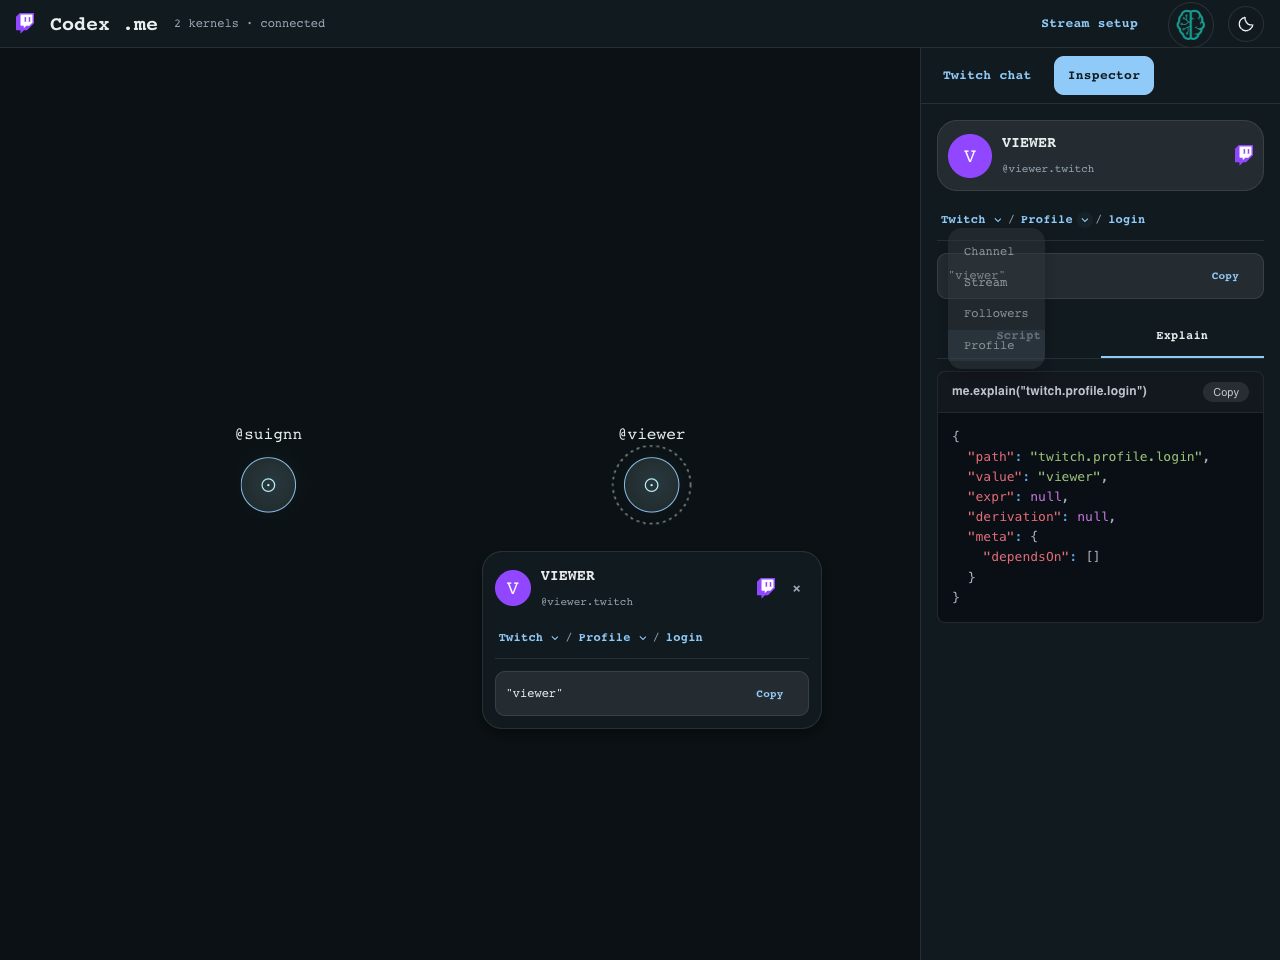
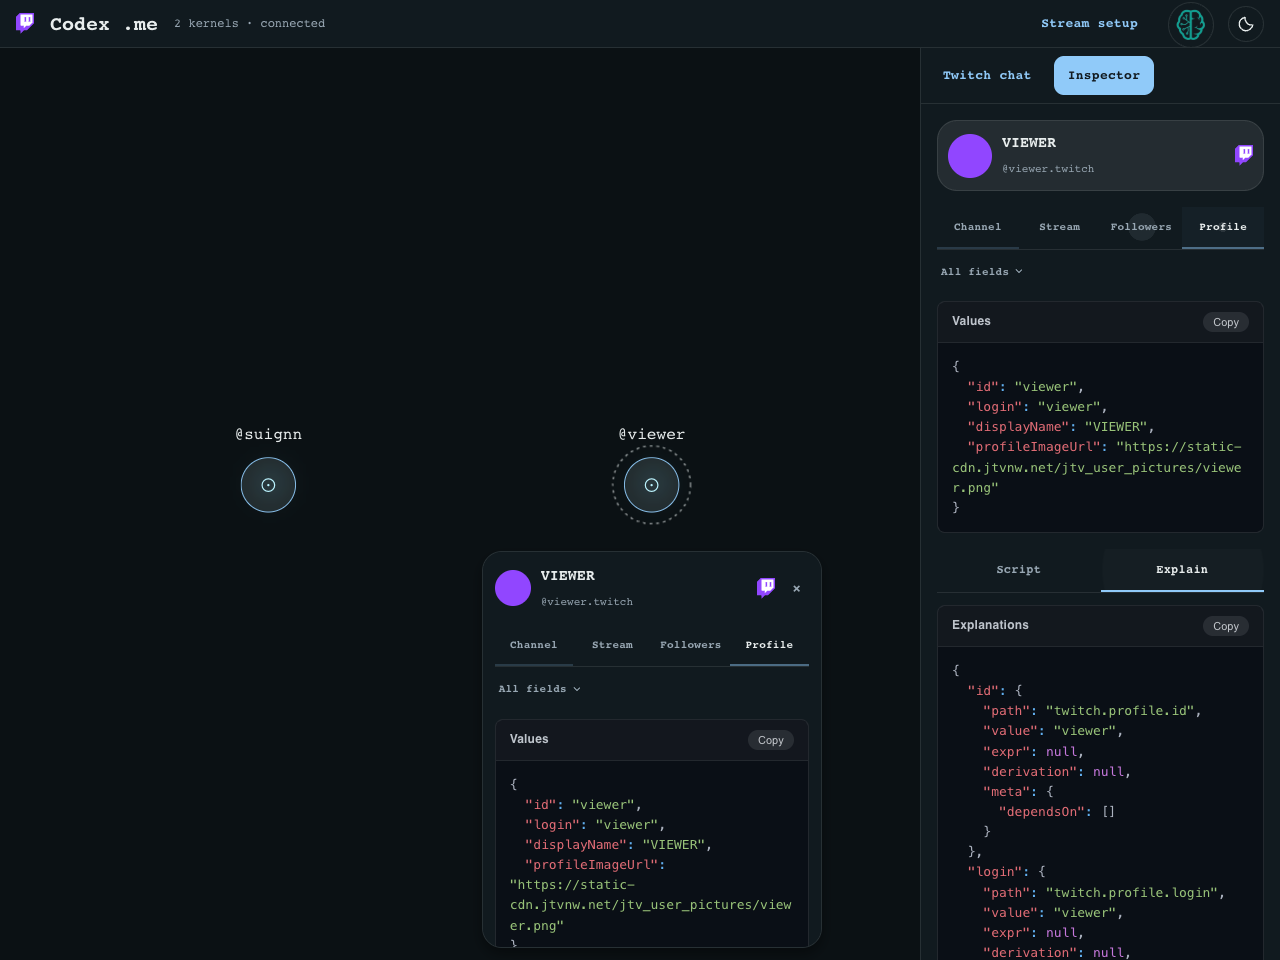
fix: expose Twitch resource tabs and show complete section outputs immediately

diff --git a/overlay/kernel-graph.js b/overlay/kernel-graph.js
@@ -1,36 +1,28 @@
-import { pathParts, joinPath, pathChildren } from './kernel-paths.js';
+import { pathParts, pathChildren } from './kernel-paths.js';
 const R = window.React, h = R.createElement, G = window.GUI;
 const { Box, Typography, Button } = G.Atoms;
 const { Menu, MenuItem } = G.Molecules;
 const mono = { fontFamily: '"IBM Plex Mono", ui-monospace, monospace' };
-export function KnowledgeGraph({ graph, sections, owner = '', path, selectPath }) {
-  const [menu, setMenu] = R.useState(null), bar = R.useRef(null);
-  const nodes = graph?.nodes || [], parts = pathParts(path).filter((part, i) => i !== 0 || part !== 'twitch');
-  const childrenOf = target => target === 'twitch' && sections ? ['channel','stream','followers','profile'].map(name => ({ path: `twitch.${name}`, name: name[0].toUpperCase()+name.slice(1), node: null })) : pathChildren(nodes, target);
-  const prefix = ['twitch'];
-  R.useEffect(() => { if (bar.current) bar.current.scrollLeft = bar.current.scrollWidth; }, [path]);
+const resources = ['channel','stream','followers','profile'];
+export function KnowledgeGraph({ graph, owner = '', path, selectPath }) {
+  const [menu, setMenu] = R.useState(null);
+  const section = resources.includes(path.split('.')[1]) ? path.split('.')[1] : 'channel';
+  const root = `twitch.${section}`, fields = pathChildren(graph?.nodes || [], root), parts = pathParts(path).slice(2);
+  const prefix = R.useId();
   const go = value => { setMenu(null); selectPath(value); };
-  const button = { ...mono, textTransform: 'none', minWidth: 0, px: 0.5, py: 0.25, fontSize: 12, whiteSpace: 'nowrap', flexShrink: 0 };
-  const segment = (target, label, root = false) => {
-    const children = childrenOf(target), name = `Children of ${target || 'me://'}`;
-    return h(Box, { key: target, component: 'span', sx: { display: 'inline-flex', alignItems: 'center', flexShrink: 0 } },
-      h(Button, { size: 'small', onClick: () => go(target), 'data-path-segment': target, 'aria-current': target === path ? 'location' : undefined,
-        'aria-label': root ? 'Go to kernel root' : `Open path ${target}`, sx: button }, label),
-      children.length ? h(Button, { size: 'small', 'aria-label': name, title: `Browse ${target || 'kernel root'}`, 'aria-haspopup': 'menu', 'aria-expanded': menu?.parent === target,
-        onClick: event => setMenu({ anchor: event.currentTarget, parent: target, label: name }), sx: { ...button, px: 0.25 } },
-        h('svg', { 'aria-hidden': true, width: 12, height: 12, viewBox: '0 0 12 12', fill: 'none', stroke: 'currentColor', strokeWidth: 1.4 }, h('path', { d: 'M3 4.5 6 7.5 9 4.5' }))) : null);
-  };
-  return h(Box, { 'data-knowledge-graph': true, sx: { minWidth: 0 } },
-    h(Box, { component: 'nav', ref: bar, 'aria-label': 'Kernel path', 'data-kernel-path': path, 'data-kernel-owner': owner, 'data-me-address': `me://${owner}${path ? '/'+pathParts(path).join('/') : ''}`,
-      sx: { display: 'flex', alignItems: 'center', flexWrap: 'nowrap', overflowX: 'auto', whiteSpace: 'nowrap', gap: 0.25, borderBottom: 1, borderColor: 'divider', pb: 1, mb: 1.5 } },
-      segment('twitch', 'Twitch', true),
-      ...parts.map((part, i) => h(R.Fragment, { key: joinPath([...prefix, ...parts.slice(0, i + 1)]) },
-        h(Typography, { 'aria-hidden': true, sx: { ...mono, fontSize: 12, color: 'text.secondary', flexShrink: 0 } }, '/'),
-        segment(joinPath([...prefix, ...parts.slice(0, i + 1)]), i === 0 ? part[0].toUpperCase()+part.slice(1) : part)))),
-    h(Menu, { anchorEl: menu?.anchor || null, open: !!menu, onClose: () => setMenu(null), MenuListProps: { 'aria-label': menu?.label || 'Path choices' } },
-      childrenOf(menu?.parent || 'twitch').map(child => h(MenuItem, { key: child.path, selected: path === child.path || path.startsWith(child.path+'.'),
-        'data-path-option': child.path, onClick: () => go(child.path), title: child.node?.explanation,
-        sx: { ...mono, fontSize: 12, display: 'flex', gap: 2, justifyContent: 'space-between', maxWidth: 320 } },
-        h('span', null, child.name),
-        child.node ? h(Box, { component: 'span', sx: { color: 'text.secondary', fontSize: 11, minWidth: 0, overflow: 'hidden', textOverflow: 'ellipsis', whiteSpace: 'nowrap', maxWidth: 160 } }, JSON.stringify(child.node.value) ?? 'undefined') : null))));
+  return h(Box, { 'data-knowledge-graph': true, 'data-kernel-path': path, 'data-kernel-owner': owner, 'data-me-address': `me://${owner}/${pathParts(path).join('/')}`, sx: { minWidth: 0, mb: 1.5 } },
+    h(Box, { role: 'tablist', 'aria-label': 'Twitch sections', sx: { display: 'grid', gridTemplateColumns: 'repeat(4,minmax(0,1fr))', borderBottom: 1, borderColor: 'divider' } },
+      resources.map((name, index) => h(Button, { key: name, role: 'tab', id: `${prefix}-${name}`, 'aria-controls': `${prefix}-fields`, 'aria-selected': section === name, tabIndex: section === name ? 0 : -1,
+        onClick: () => go(`twitch.${name}`), onKeyDown: event => {
+          const next = event.key === 'ArrowRight' ? (index+1)%4 : event.key === 'ArrowLeft' ? (index+3)%4 : event.key === 'Home' ? 0 : event.key === 'End' ? 3 : null;
+          if (next === null) return; event.preventDefault(); go(`twitch.${resources[next]}`); event.currentTarget.parentElement.querySelectorAll('[role="tab"]')[next].focus();
+        }, sx: { ...mono, fontSize: { xs: 10, lg: 11 }, px: 0.25, minWidth: 0, textTransform: 'none', borderRadius: 0, borderBottom: 2, borderColor: section === name ? 'primary.main' : 'transparent', color: section === name ? 'text.primary' : 'text.secondary' } }, name[0].toUpperCase()+name.slice(1)))),
+    h(Box, { role: 'group', id: `${prefix}-fields`, 'aria-label': `${section} fields`, sx: { display: 'flex', alignItems: 'center', minHeight: 28, mt: 0.5 } },
+      fields.length ? h(Button, { size: 'small', onClick: event => setMenu(event.currentTarget), 'aria-label': `Fields of ${root}`, 'aria-haspopup': 'menu', 'aria-expanded': !!menu,
+        sx: { ...mono, fontSize: 11, minWidth: 0, px: 0.5, textTransform: 'none', color: 'text.secondary' } }, parts.length ? parts.join('/') : 'All fields',
+        h('svg', { 'aria-hidden': true, width: 12, height: 12, viewBox: '0 0 12 12', fill: 'none', stroke: 'currentColor', strokeWidth: 1.4, style: { marginLeft: 4 } }, h('path', { d: 'M3 4.5 6 7.5 9 4.5' }))) : null),
+    h(Menu, { anchorEl: menu, open: !!menu, onClose: () => setMenu(null), MenuListProps: { 'aria-label': `Fields of ${root}` } },
+      h(MenuItem, { selected: path === root, onClick: () => go(root), 'data-path-option': root, sx: { ...mono, fontSize: 12 } }, 'All fields'),
+      fields.map(child => h(MenuItem, { key: child.path, selected: child.path === path, 'data-path-option': child.path, onClick: () => go(child.path), sx: { ...mono, fontSize: 12, gap: 2, justifyContent: 'space-between', maxWidth: 320 } },
+        child.name, child.node ? h(Typography, { component: 'span', sx: { ...mono, fontSize: 11, color: 'text.secondary', overflow: 'hidden', textOverflow: 'ellipsis', whiteSpace: 'nowrap', maxWidth: 160 } }, JSON.stringify(child.node.value)) : null))));
 }

diff --git a/overlay/kernel-console.js b/overlay/kernel-console.js
@@ -17,42 +17,49 @@ function CodeLine({ value }) {
     error ? h(Typography, { role: 'alert', sx: { fontSize: 12, color: 'error.main', mt: 0.5 } }, error) : null);
 }
 const tabs = ['Script', 'Explain'];
-function useQuery(id, path, operation, enabled, revision = 0) {
+function useQuery(kernel, path, operation, enabled) {
   const [result, setResult] = R.useState(null);
-  const key = JSON.stringify([id, path, operation, revision]);
+  const nodes = kernel.graph?.nodes || [], leaf = nodes.some(node => node.path === path);
+  const paths = leaf ? [path] : nodes.filter(node => node.path.startsWith(path+'.')).map(node => node.path);
+  const revision = kernel.sections?.[path.split('.')[1]]?.updatedAt || 0;
+  const key = JSON.stringify([kernel.id, path, operation, paths, revision]);
   R.useEffect(() => {
-    if (!enabled) return;
+    if (!enabled || !paths.length) return;
     const controller = new AbortController();
     (async () => {
       try {
-        const params = new URLSearchParams({ path, operation });
-        const response = await fetch(`/api/kernels/${encodeURIComponent(id)}/query?${params}`, { signal: controller.signal });
-        const data = await response.json();
-        if (!response.ok) throw new Error(data.error || 'Query failed');
-        if (!controller.signal.aborted) setResult({ key, output: data.output });
+        const entries = await Promise.all(paths.map(async target => {
+          const response = await fetch(`/api/kernels/${encodeURIComponent(kernel.id)}/query?${new URLSearchParams({ path: target, operation })}`, { signal: controller.signal });
+          const data = await response.json();
+          if (!response.ok) throw new Error(data.error || 'Query failed');
+          return [target.slice(path.length+1), data.output];
+        }));
+        // A section is a UI projection of actual leaf reads/traces, not a native namespace read.
+        if (!controller.signal.aborted) setResult({ key, output: leaf ? entries[0][1] : Object.fromEntries(entries), projection: !leaf });
       } catch (e) { if (!controller.signal.aborted) setResult({ key, error: e.message }); }
     })();
     return () => controller.abort();
-  }, [id, path, operation, enabled, key, revision]);
+  }, [key, enabled]);
   return result?.key === key ? result : null;
 }
 function renderResult(result, operation, kernel, path, leaf) { return !leaf
     ? null
     : result?.error ? h(Typography, { role: 'alert', sx: { fontSize: 12, color: 'error.main' } }, result.error)
-    : result ? h(Box, { 'data-query-output': operation, 'aria-live': 'polite' }, operation === 'run'
+    : result ? h(Box, { 'data-query-output': operation, 'aria-live': 'polite' }, operation === 'run' && !result.projection
       ? h(CodeLine, { key: `${kernel.id}:${path}:${JSON.stringify(result.output)}`, value: result.output })
-      : code(JSON.stringify(result.output, null, 2), 'json', `me.explain(${JSON.stringify(path)})`))
+      : code(JSON.stringify(result.output, null, 2), 'json', result.projection ? operation === 'run' ? 'Values' : 'Explanations' : `me.explain(${JSON.stringify(path)})`))
     : h(Typography, { role: 'status', sx: { ...mono, fontSize: 12, color: 'text.secondary' } }, 'Loading…'); }
 export function KernelOutput({ kernel, path, compact = false }) {
-  const leaf = kernel.graph?.nodes.some(node => node.path === path);
-  const output = useQuery(kernel.id, path, 'run', leaf, kernel.sections?.[path.split('.')[1]]?.updatedAt);
-  if (!leaf) return null;
-  return h(Box, { component: 'section', 'aria-label': 'Output', sx: { mb: compact ? 0 : 2 } }, renderResult(output, 'run', kernel, path, leaf));
+  const leaf = kernel.graph?.nodes.some(node => node.path === path || node.path.startsWith(path+'.'));
+  const output = useQuery(kernel, path, 'run', leaf);
+  const state = kernel.sections?.[path.split('.')[1]];
+  if (!leaf || state?.status === 'error') return h(Typography, { role: state?.status === 'error' ? 'alert' : 'status', sx: { ...mono, fontSize: 11, color: state?.status === 'error' ? 'error.main' : 'text.secondary', mb: 1 } }, state?.error || 'Loading Twitch…');
+  return h(Box, { component: 'section', 'aria-label': 'Output', sx: { ...codeStyle, mb: compact ? 0 : 2 } }, renderResult(output, 'run', kernel, path, leaf));
 }
 export function KernelConsole({ kernel, path }) {
   const [tab, setTab] = R.useState('Script');
-  const leaf = kernel.graph?.nodes.some(node => node.path === path);
-  const explanation = useQuery(kernel.id, path, 'explain', leaf && tab === 'Explain', kernel.sections?.[path.split('.')[1]]?.updatedAt);
+  const leaf = kernel.graph?.nodes.some(node => node.path === path || node.path.startsWith(path+'.'));
+  const explanation = useQuery(kernel, path, 'explain', leaf && tab === 'Explain');
   const prefix = `console-${kernel.id}`;
   return h(Box, { 'data-kernel-console': kernel.id, sx: codeStyle },
     h(KernelOutput, { kernel, path }),

diff --git a/overlay/spiders.js b/overlay/spiders.js
@@ -103,11 +103,9 @@ function App() {
     load().finally(() => { if (!controller.signal.aborted) schedule(); });
     return () => { controller.abort(); clearTimeout(timer); };
   }, [current?.id, section]);
-  const status = current?.sections?.[section];
-  const error = sectionError && sectionError.id === current?.id && sectionError.section === section ? sectionError.message : status?.error;
   const openKernel = (kernel, anchor) => {
     if (transparent) return;
-    if (selected !== kernel.id) { select(kernel.id); selectPath('twitch'); }
+    if (selected !== kernel.id) { select(kernel.id); selectPath('twitch.channel'); }
     setBubbleAnchor(selected === kernel.id && bubbleAnchor ? null : anchor);
     setPanel('inspector');
   };
@@ -134,7 +132,7 @@ function App() {
           current ? h(React.Fragment, null,
             h(TwitchProfile, { kernel: current }),
             h(KnowledgeGraph, { graph: current.graph, sections: current.sections, owner: current.owner, path, selectPath }),
-            error ? h(Typography, { role: 'alert', sx: { ...mono, fontSize: 11, color: 'error.main', mb: 1 } }, error) : status?.status === 'loading' ? h(Typography, { role: 'status', sx: { ...mono, fontSize: 11, color: 'text.secondary', mb: 1 } }, 'Loading Twitch…') : null,
+            sectionError && sectionError.id === current.id && sectionError.section === section ? h(Typography, { role: 'alert', sx: { ...mono, fontSize: 11, color: 'error.main' } }, sectionError.message) : null,
             h(KernelConsole, { kernel: current, path }))
             : h(Typography, { role: 'status', 'data-inspector-empty': true, sx: { ...mono, fontSize: 14, color: 'text.secondary' } }, 'Select a node')))));
 }

diff --git a/README.md b/README.md
@@ -51,9 +51,9 @@ Graph nodes come from public `exportSnapshot().memories`; values are read throug
 
 The selected kernel's profile header renders its real Twitch avatar, display name and linked login using GUI atoms; the existing Twitch Glitch asset marks the profile and web topbar. Missing avatars fall back to the login initial. These controls remain outside the transparent OBS scene.
 
-The profile and bubble card use the label `@<login>.twitch` with the actual avatar and Twitch logo. This is a local account label, not a claimed protocol namespace or a registered domain. The navigation begins with **Twitch**, with **Channel / Stream / Followers / Profile** in its dropdown. Profile contains the technical fields so they do not clutter the main menu. Channel, Stream and Followers are API resource choices, not invented kernel facts before loading.
+The profile and bubble card use the label `@<login>.twitch` with the actual avatar and Twitch logo. This is a local account label, not a claimed protocol namespace or a registered domain. Immediately below the account header, **Channel / Stream / Followers / Profile** are four always-visible tabs. Selecting a tab immediately shows its complete imported section output; there is no repeated Twitch root label or prerequisite field selection. Profile contains the technical fields so they do not clutter the main menu. Channel, Stream and Followers are API resource choices, not invented kernel facts before loading.
 
-Clicking a bubble opens an anchored navigator synchronized with the inspector. Both share the selected kernel/path, actual copyable value and persistent Script/Explain tab. Segment names navigate to ancestors; dropdowns list children, so siblings are chosen from their shared parent. One-line bars scroll horizontally rather than wrap, with no separate child list or Select a path prompt. Closing the bubble navigator preserves its inspected path. These controls remain outside the transparent OBS source. Below the selected path, the value is always visible as a compact, single-line JSON code display with a Copy button and no separate Output heading. It automatically reads `me(path)` from the existing server kernel. Under it, **Script / Explain** tabs show the construction source or the actual `me.explain(path)` JSON, including expression, derivation and metadata from this.me 4.2.1. The selected tab is preserved while navigating paths or switching kernels. Query results follow the current selection, with obsolete requests cancelled and old-path results hidden. Script is initially selected; arrow keys and Home/End navigate the tabs. Both views use GUI's native syntax highlighting. No construction script is re-executed and no editable code or eval is accepted. The object inspector is separate from GUI's general semantic/interface inspector and browser DOM developer tools. Selecting graph nodes only reads state; it does not execute or rewrite scripts. Face following changes presentation only and does not invent kernel facts or explanation results.
+Clicking a bubble opens an anchored navigator synchronized with the inspector. Both share the selected kernel/path, actual copyable values and persistent Script/Explain tab. Channel is initially selected. Resource tabs navigate directly; the optional **All fields** dropdown narrows inspection to an individual field and can return to the whole section. Closing the bubble panel preserves selection. These controls remain outside the transparent OBS source. A section shows formatted, copyable JSON immediately. Selecting an individual field uses the compact, single-line JSON value with Copy. It automatically reads `me(path)` from the existing server kernel. Under it, **Script / Explain** tabs show the construction source or the actual `me.explain(path)` JSON, including expression, derivation and metadata from this.me 4.2.1. The selected tab is preserved while navigating paths or switching kernels. Query results follow the current selection, with obsolete requests cancelled and old-path results hidden. Script is initially selected; arrow keys and Home/End navigate the tabs. Both views use GUI's native syntax highlighting. No construction script is re-executed and no editable code or eval is accepted. The object inspector is separate from GUI's general semantic/interface inspector and browser DOM developer tools. Selecting graph nodes only reads state; it does not execute or rewrite scripts. Face following changes presentation only and does not invent kernel facts or explanation results.
 
 
 ### Public Twitch sections
@@ -69,7 +69,7 @@ Opening a section reads its actual data through the server, imports whitelisted 
 
 Stream `live` is normalized by the adapter from the presence of a matching stream in a successful API response. Successful empty stream data means offline, with live-only fields cleared to `null`. It is imported as a stored fact, not represented as a fabricated kernel derivation. API errors are displayed as unavailable; they never manufacture offline or a zero follower count. Followers imports only `total`, never follower identities. Its public count works with the existing authorization; detailed follower lists would require additional authorization and are outside this change.
 
-Output and Explain use the real kernel reads/traces of imported fields, refreshing when new API data arrives. Script shows the current reproducible declarations, not a growing polling history. Section loading/status timestamps are transport metadata, not synthetic graph facts. Unloaded fields are absent; chat reads inspect the currently imported state.
+Output and Explain use the real kernel reads/traces of imported fields, refreshing when new API data arrives. Whole-section output is an explicit UI projection: it collects real leaf `me(path)` results into one object, and whole-section Explain collects each real `me.explain(path)` trace. It does not fabricate a native namespace read or namespace-level explanation. Single-field views still show the exact native result. Script shows the current reproducible declarations, not a growing polling history. Section loading/status timestamps are transport metadata, not synthetic graph facts. Unloaded fields are absent; chat reads inspect the currently imported state.
 
 ## Chat, web and OBS
 

diff --git a/evidence/SESSION.md b/evidence/SESSION.md
@@ -415,3 +415,12 @@ Resource choices are transport metadata until loaded, not fabricated graph facts
 Verification: all 10 original tests and 19 server checks passed; five new adapter tests cover live→offline clearing, empty/invalid responses, identity matching, true zero followers, private-field exclusion and absent/unloaded data. Expanded real-server/browser kernel integration passed, covering section menus, real imported values, concurrent/cache behavior, an upstream 503 yielding no fake count, invalid sections, stable viewer isolation, copyable bubble values and retained Explain navigation. An initial browser run found a null-state rendering error before node selection; fixed and repeated successfully.
 
 Restarted only the verified codex-me process on 3017 to activate the server changes (and final unchanged-write optimization); unrelated services and OBS were untouched. Live verification with the existing authorization succeeded for all three endpoints: suignn channel language en (empty title/category returned by Twitch), stream offline, followers total 1. Saved public-only, credential-free results in evidence/kernels/twitch-sections-live.json. Real-browser screenshots show the four-section menu and actual followers.total output/explain: twitch-sections.png and followers-total.png. These are real API reads, not evidence of a newly sent chat command or a live stream. No real chat messages were sent.
+
+
+### 2026-10-28 — direct resource tabs and immediately visible section outputs
+
+The owner clarified that Channel/Stream/Followers/Profile must be visible tabs rather than options hidden under another repeated Twitch label. Replaced that root dropdown with four directly visible GUI tab buttons on both surfaces. Selecting a bubble defaults to Channel. Selecting a resource immediately renders its whole-section JSON; optional All fields dropdowns allow scalar field inspection and returning to the section. Script/Explain selection remains persistent.
+
+Diagnosed the reported empty views: section API data was present, but the old UI intentionally suppressed output until a leaf was selected. Fixed by collecting actual existing /query leaf reads into a section-value projection; whole-section Explain similarly collects real native leaf traces. No namespace-level me() output or trace is fabricated. Single leaves still show native scalar values/traces. Section errors/loading are visible rather than blank. Shared output styling preserves GUI syntax highlighting and Copy. No backend changes or restart.
+
+Expanded offline browser/server integration passed with four visible tabs, immediate Channel/Stream/Followers/Profile JSON, corresponding real leaf traces, optional field inspection, bidirectional synchronization, retained Explain state, viewer isolation, cached API requests, error-without-fake-zero behavior and keyboard navigation. Live connection check confirmed authed=true and EventSub connected. Real-browser verification showed Channel JSON containing empty title/category as returned by Twitch, language en and English tags; Stream JSON showed live=false with null live-only fields; Followers immediately showed {total:1}, plus its collected native explanation. Current user-selected light theme was preserved. Screenshots: channel-direct-output.png and direct-section-tabs.png. No real chat messages or OBS changes.
